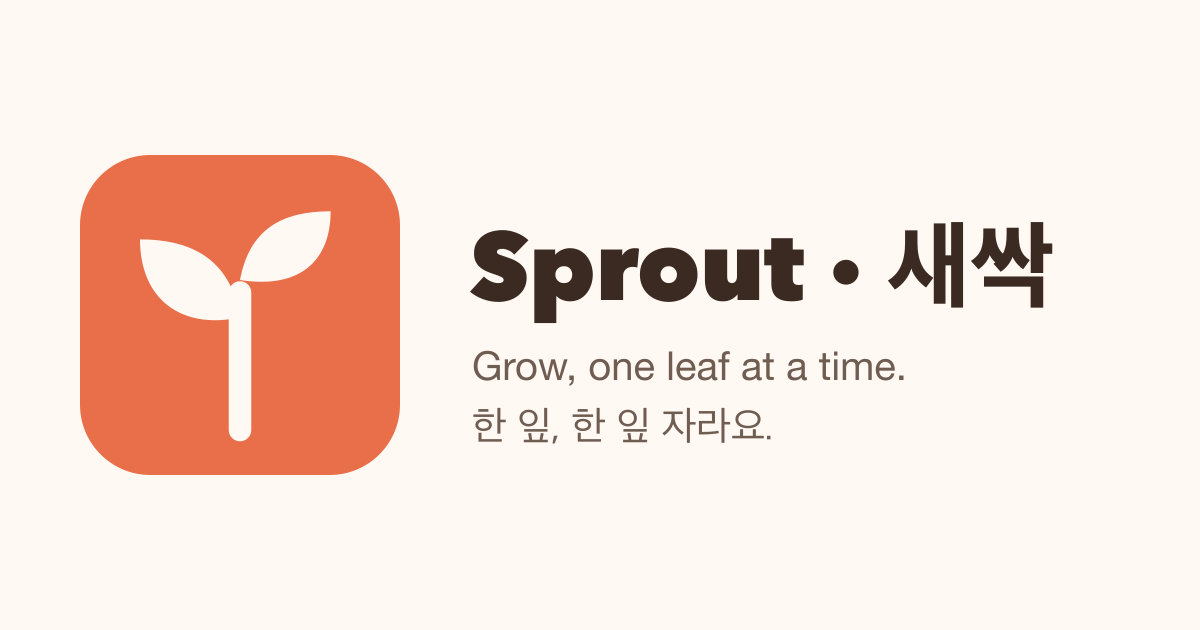
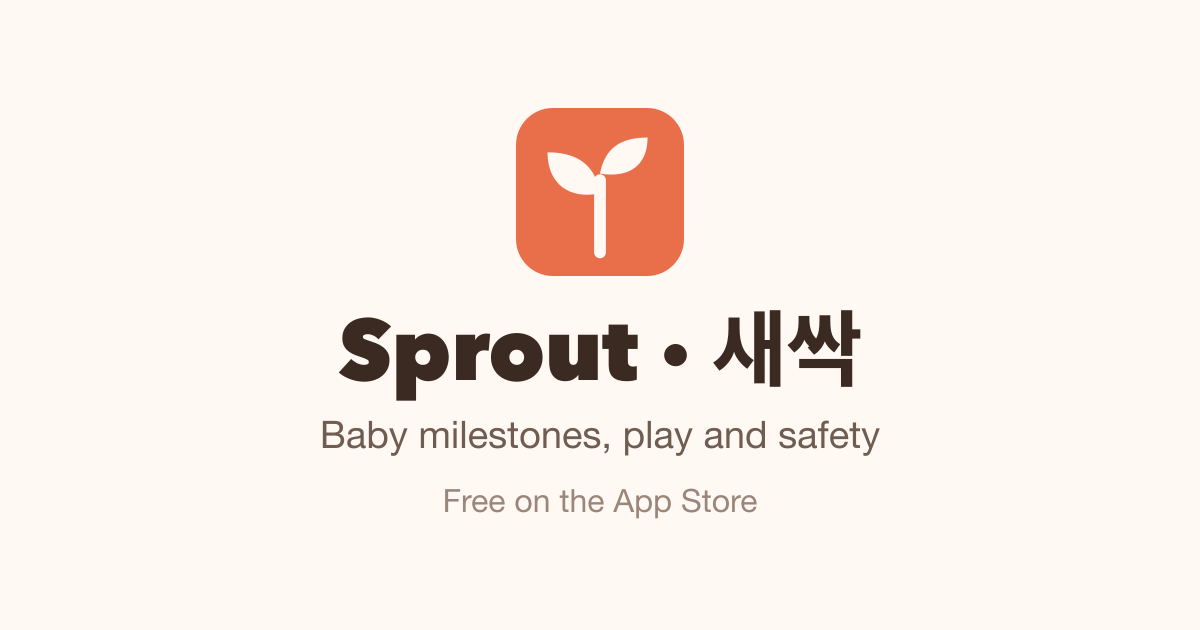
Open Graph card says what the app is
The card led with "Grow, one leaf at a time", which is a tagline: a reader seeing
the link had no way to tell it was for babies. A link preview is usually the only
context someone gets, so it now names the thing plainly and adds where to get it.

Centred rather than left aligned, with every line kept inside 630px, because some
platforms crop the card towards square and the old layout lost its middle. Widths
are measured from the rendered PNG, not estimated: wordmark 523, descriptor 558,
call to action 312, against 630 of crop.

Also added the twitter block. Without one, X falls back to a small square card
regardless of the Open Graph image, and the images entry now carries width,
height and alt.

Changed region(s): [[0.0617, 0.1508, 0.8942, 0.754], [0.37, 0.7841, 0.6475, 0.8143]]

diff --git a/src/app/layout.tsx b/src/app/layout.tsx
@@ -31,7 +31,23 @@ export const metadata: Metadata = {
   appleWebApp: { capable: true, statusBarStyle: "default", title: "Sprout" },
   icons: { icon: [{ url: "/favicon-32.png", sizes: "32x32" }, { url: "/icon-192.png", sizes: "192x192" }], apple: "/apple-touch-icon.png" },
   formatDetection: { telephone: false },
-  openGraph: { title: "Sprout", description: "Grow, one leaf at a time.", url: APP_URL, siteName: "Sprout", images: ["/og.png"] },
+  // The card is the only context a link preview gives, so the description says what the app is rather
+  // than repeating the tagline. Without an explicit twitter block X renders a small square card.
+  openGraph: {
+    type: "website",
+    title: "Sprout · 새싹",
+    description: "Milestones, play and safety for your baby's first 36 months, month by month. Free, in English and Korean.",
+    url: APP_URL,
+    siteName: "Sprout",
+    locale: "en_US",
+    images: [{ url: "/og.png", width: 1200, height: 630, alt: "Sprout · 새싹 — milestones, play and safety, month by month" }],
+  },
+  twitter: {
+    card: "summary_large_image",
+    title: "Sprout · 새싹",
+    description: "Milestones, play and safety for your baby's first 36 months. Free, in English and Korean.",
+    images: ["/og.png"],
+  },
 };
 
 export default function RootLayout({ children }: Readonly<{ children: React.ReactNode }>) {
